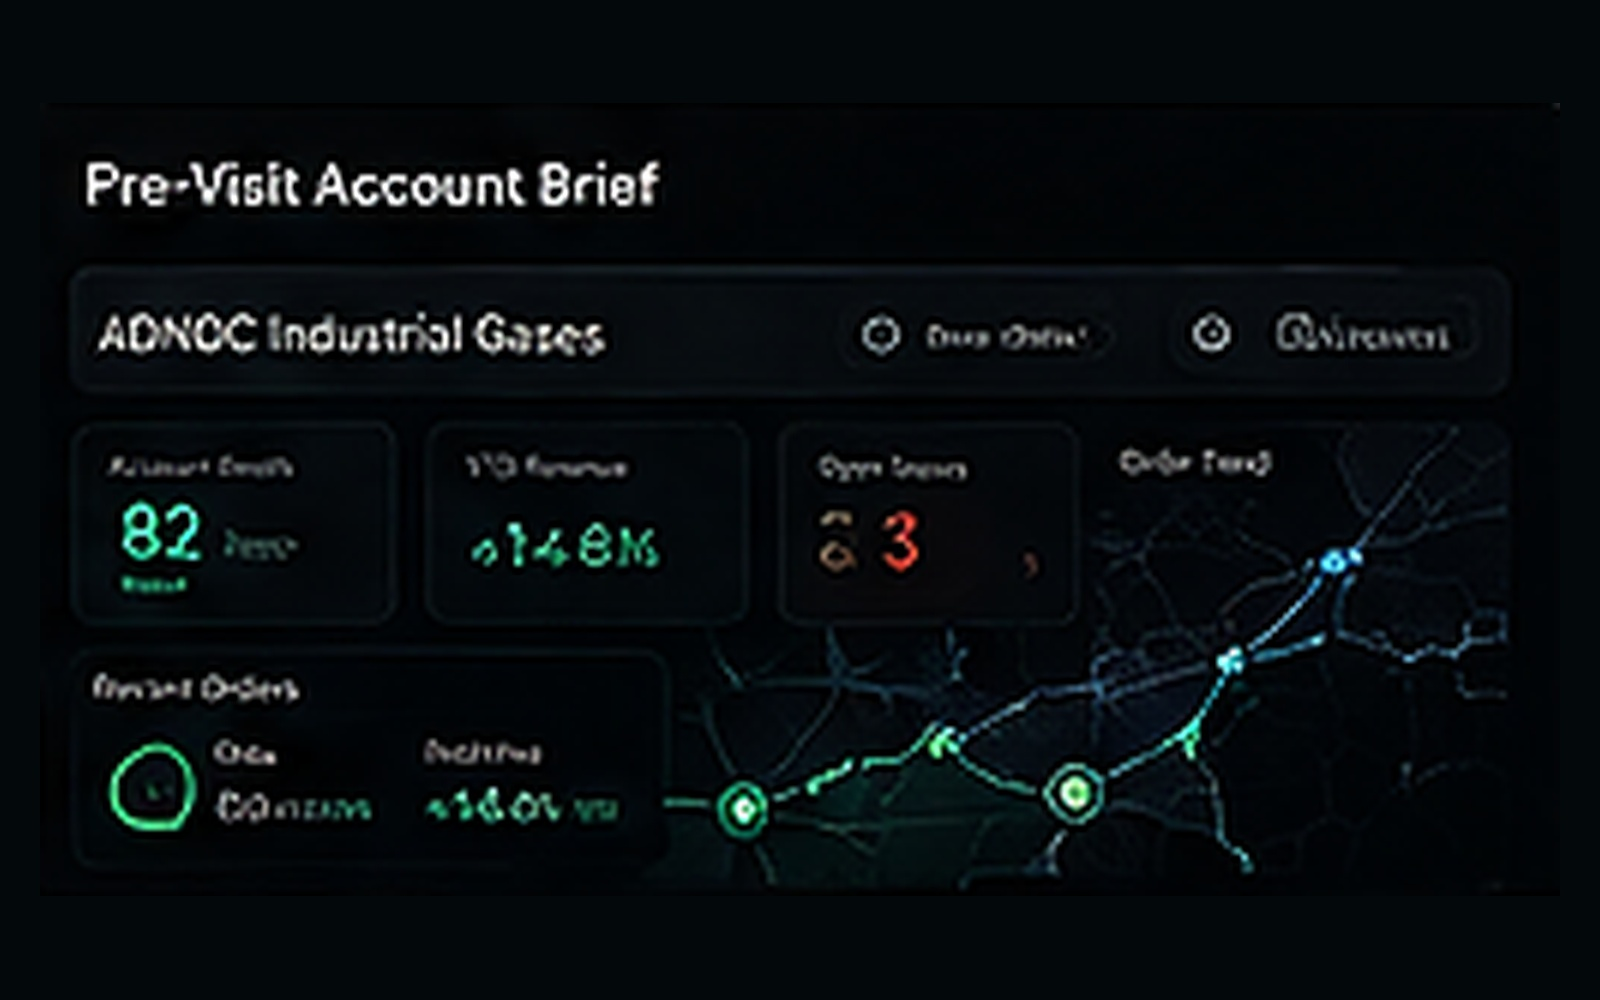
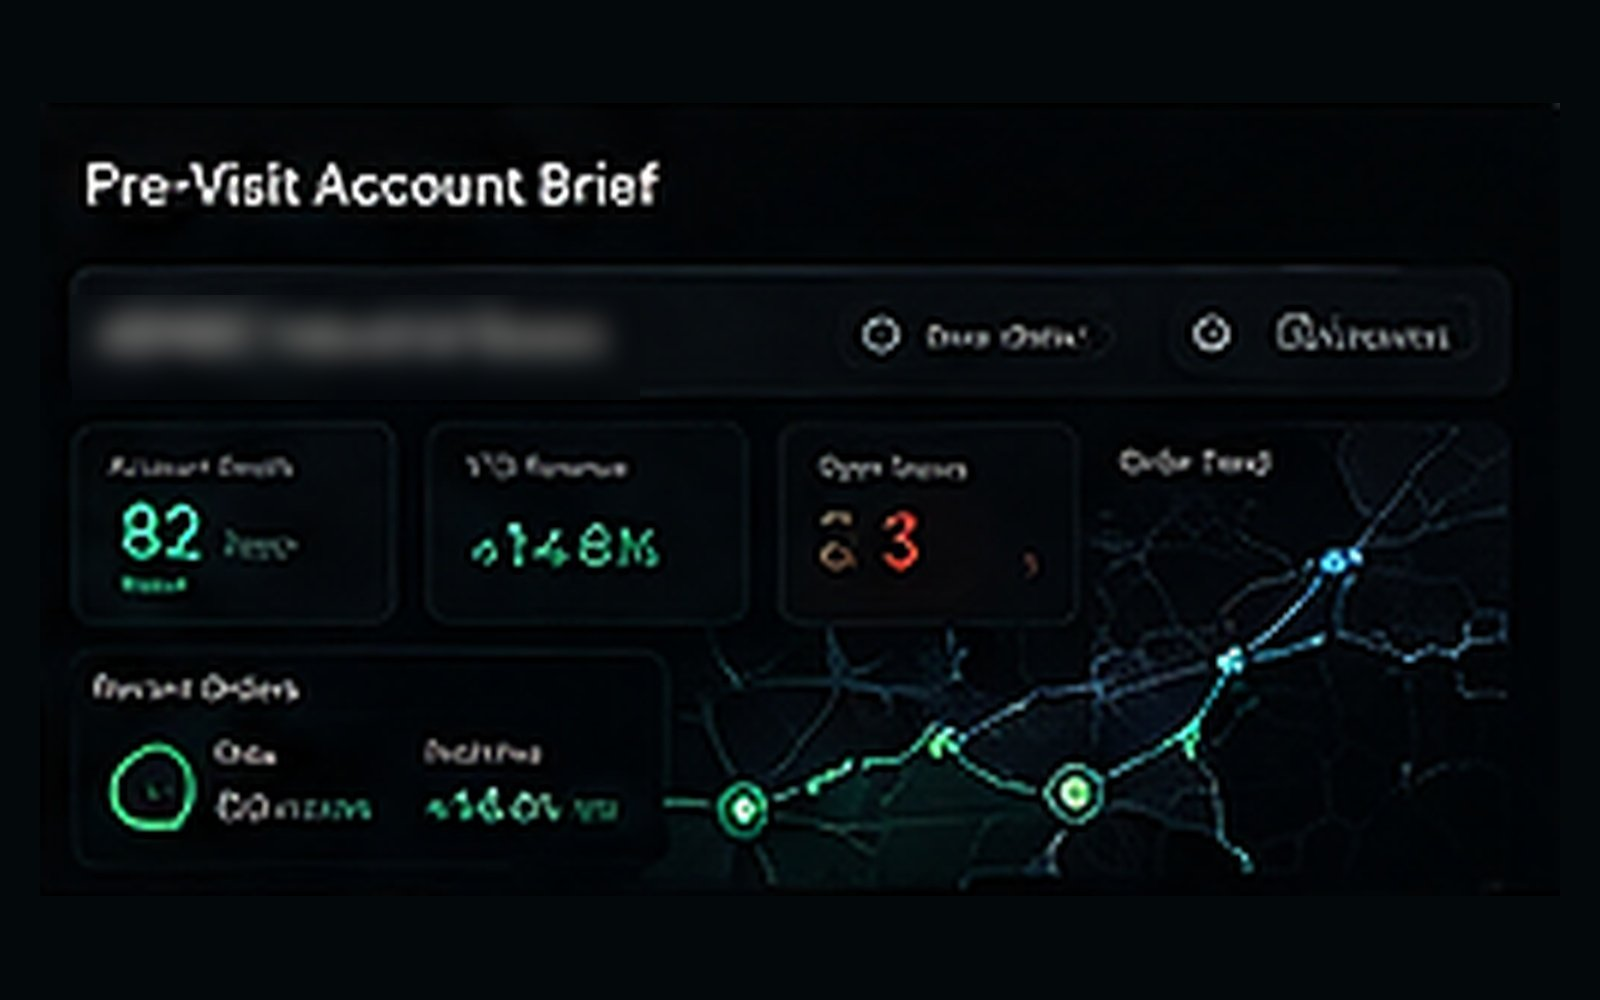
Fix contact GitHub handle, drop dead playbook links, trim hero CTA
- Contact card now links to github.com/abdul037 (the real profile the
  footer already points to), not the stale github.com/abdulmuwahib.
- Remove the two "playbook" buttons that pointed at prototype-only
  .dc.html companion pages (dead links in this build); hand their
  right-alignment to the following label so the header layout holds.
- Remove the redundant hero "View Resume" button — the résumé is still
  reachable from the Contact card's "Résumé" control.
- Region-blur the ADNOC account name in the CRM Copilot deep-dive
  screenshot (dd-crmcopilot-1.jpg).

Claude-Session: https://claude.ai/code/session_012PYoG9vEsXqpUYbTtokhaK

Changed region(s): [[0.0625, 0.279, 0.4062, 0.372]]

diff --git a/src/components/design/HomeContact.tsx b/src/components/design/HomeContact.tsx
@@ -30,7 +30,7 @@ export function HomeContact({ v }: { v: ViewModel }) {
               <a href="https://www.linkedin.com/in/abdul-muwahib" target="_blank" rel="noopener" data-magnetic="1" style={{ display: "inline-block", background: "rgba(255,255,255,0.03)", border: "1px solid rgba(255,255,255,0.12)", color: "#e0e0e6", fontSize: "15px", fontWeight: "500", padding: "14px 28px", borderRadius: "10px", transition: "border-color 0.2s" }} className="hv-23">
                 LinkedIn
               </a>
-              <a href="https://github.com/abdulmuwahib" target="_blank" rel="noopener" data-magnetic="1" style={{ display: "inline-block", background: "rgba(255,255,255,0.03)", border: "1px solid rgba(255,255,255,0.12)", color: "#e0e0e6", fontSize: "15px", fontWeight: "500", padding: "14px 28px", borderRadius: "10px", transition: "border-color 0.2s" }} className="hv-23">
+              <a href="https://github.com/abdul037" target="_blank" rel="noopener" data-magnetic="1" style={{ display: "inline-block", background: "rgba(255,255,255,0.03)", border: "1px solid rgba(255,255,255,0.12)", color: "#e0e0e6", fontSize: "15px", fontWeight: "500", padding: "14px 28px", borderRadius: "10px", transition: "border-color 0.2s" }} className="hv-23">
                 GitHub
               </a>
               <button type="button" onClick={v.openResume} data-magnetic="1" style={{ display: "inline-block", background: "rgba(255,255,255,0.03)", border: "1px solid rgba(255,255,255,0.12)", color: "#e0e0e6", fontFamily: "var(--font-space-grotesk), system-ui, sans-serif", fontSize: "15px", fontWeight: "500", padding: "14px 28px", borderRadius: "10px", cursor: "pointer", transition: "border-color 0.2s" }} className="hv-24">

diff --git a/src/components/design/HomeHero.tsx b/src/components/design/HomeHero.tsx
@@ -41,13 +41,6 @@ export function HomeHero({ v }: { v: ViewModel }) {
               <button type="button" onClick={v.viewPortfolio} data-magnetic="1" style={{ background: "linear-gradient(135deg, var(--a,#34d399), #2dd4bf)", color: "#07070e", fontFamily: "var(--font-space-grotesk), system-ui, sans-serif", fontSize: "15px", fontWeight: "600", padding: "16px 34px", borderRadius: "12px", border: "none", cursor: "pointer", boxShadow: "0 8px 32px rgba(var(--aRGB,52,211,153),0.4)", transition: "all 0.3s" }} className="hv-3">
                 View Portfolio
               </button>
-              <button type="button" onClick={v.openResume} data-magnetic="1" style={{ display: "inline-flex", alignItems: "center", gap: "8px", background: "rgba(255,255,255,0.04)", border: "1px solid rgba(255,255,255,0.12)", color: "#e0e0e6", fontFamily: "var(--font-space-grotesk), system-ui, sans-serif", fontSize: "15px", fontWeight: "500", padding: "16px 30px", borderRadius: "12px", cursor: "pointer", transition: "all 0.3s", backdropFilter: "blur(8px)" }} className="hv-4">
-                <svg width="16" height="16" viewBox="0 0 24 24" fill="none" stroke="currentColor" strokeWidth="2" strokeLinecap="round" strokeLinejoin="round">
-                  <path d="M14 2H6a2 2 0 0 0-2 2v16a2 2 0 0 0 2 2h12a2 2 0 0 0 2-2V8z" />
-                  <polyline points="14 2 14 8 20 8" />
-                </svg>
-                 View Resume 
-              </button>
             </div>
             <div data-reveal="1" data-delay="2" style={{ display: "flex", gap: "28px", marginTop: "48px", flexWrap: "wrap" }}>
               <div style={{ display: "flex", alignItems: "baseline", gap: "7px" }}>

diff --git a/src/components/design/HomeTeardowns.tsx b/src/components/design/HomeTeardowns.tsx
@@ -18,10 +18,7 @@ export function HomeTeardowns({ v }: { v: ViewModel }) {
             <span style={{ fontFamily: "var(--font-ibm-plex-mono), monospace", fontSize: "10px", letterSpacing: "0.12em", textTransform: "uppercase", color: "#818cf8" }}>
               GCC Product Teardowns
             </span>
-            <a href="Product%20Studies%20Cheat%20Sheet.dc.html" style={{ fontFamily: "var(--font-ibm-plex-mono), monospace", fontSize: "9px", letterSpacing: "0.1em", textTransform: "uppercase", color: "#818cf8", marginLeft: "auto", textDecoration: "none", border: "1px solid rgba(129,140,248,0.25)", borderRadius: "5px", padding: "4px 10px", transition: "all 0.2s" }} className="hv-16">
-              Teardown Playbook &#8599;
-            </a>
-            <span style={{ fontFamily: "var(--font-ibm-plex-mono), monospace", fontSize: "9px", letterSpacing: "0.1em", textTransform: "uppercase", color: "#63636d" }}>
+            <span style={{ fontFamily: "var(--font-ibm-plex-mono), monospace", fontSize: "9px", letterSpacing: "0.1em", textTransform: "uppercase", color: "#63636d", marginLeft: "auto" }}>
               What they built &amp; what I&rsquo;d improve
             </span>
           </div>

diff --git a/src/components/design/HomeWork.tsx b/src/components/design/HomeWork.tsx
@@ -523,10 +523,7 @@ export function HomeWork({ v }: { v: ViewModel }) {
             <span style={{ fontFamily: "var(--font-ibm-plex-mono), monospace", fontSize: "10px", letterSpacing: "0.12em", textTransform: "uppercase", color: "#22d3ee" }}>
               Product Case Studies
             </span>
-            <a href="Interview%20Prep%20Sheet.dc.html" style={{ fontFamily: "var(--font-ibm-plex-mono), monospace", fontSize: "9px", letterSpacing: "0.1em", textTransform: "uppercase", color: "#22d3ee", marginLeft: "auto", textDecoration: "none", border: "1px solid rgba(34,211,238,0.25)", borderRadius: "5px", padding: "4px 10px", transition: "all 0.2s" }} className="hv-12">
-              Case Study Playbook &#8599;
-            </a>
-            <span style={{ fontFamily: "var(--font-ibm-plex-mono), monospace", fontSize: "9px", letterSpacing: "0.1em", textTransform: "uppercase", color: "#63636d" }}>
+            <span style={{ fontFamily: "var(--font-ibm-plex-mono), monospace", fontSize: "9px", letterSpacing: "0.1em", textTransform: "uppercase", color: "#63636d", marginLeft: "auto" }}>
               Concepts &amp; improvement proposals by industry
             </span>
           </div>
